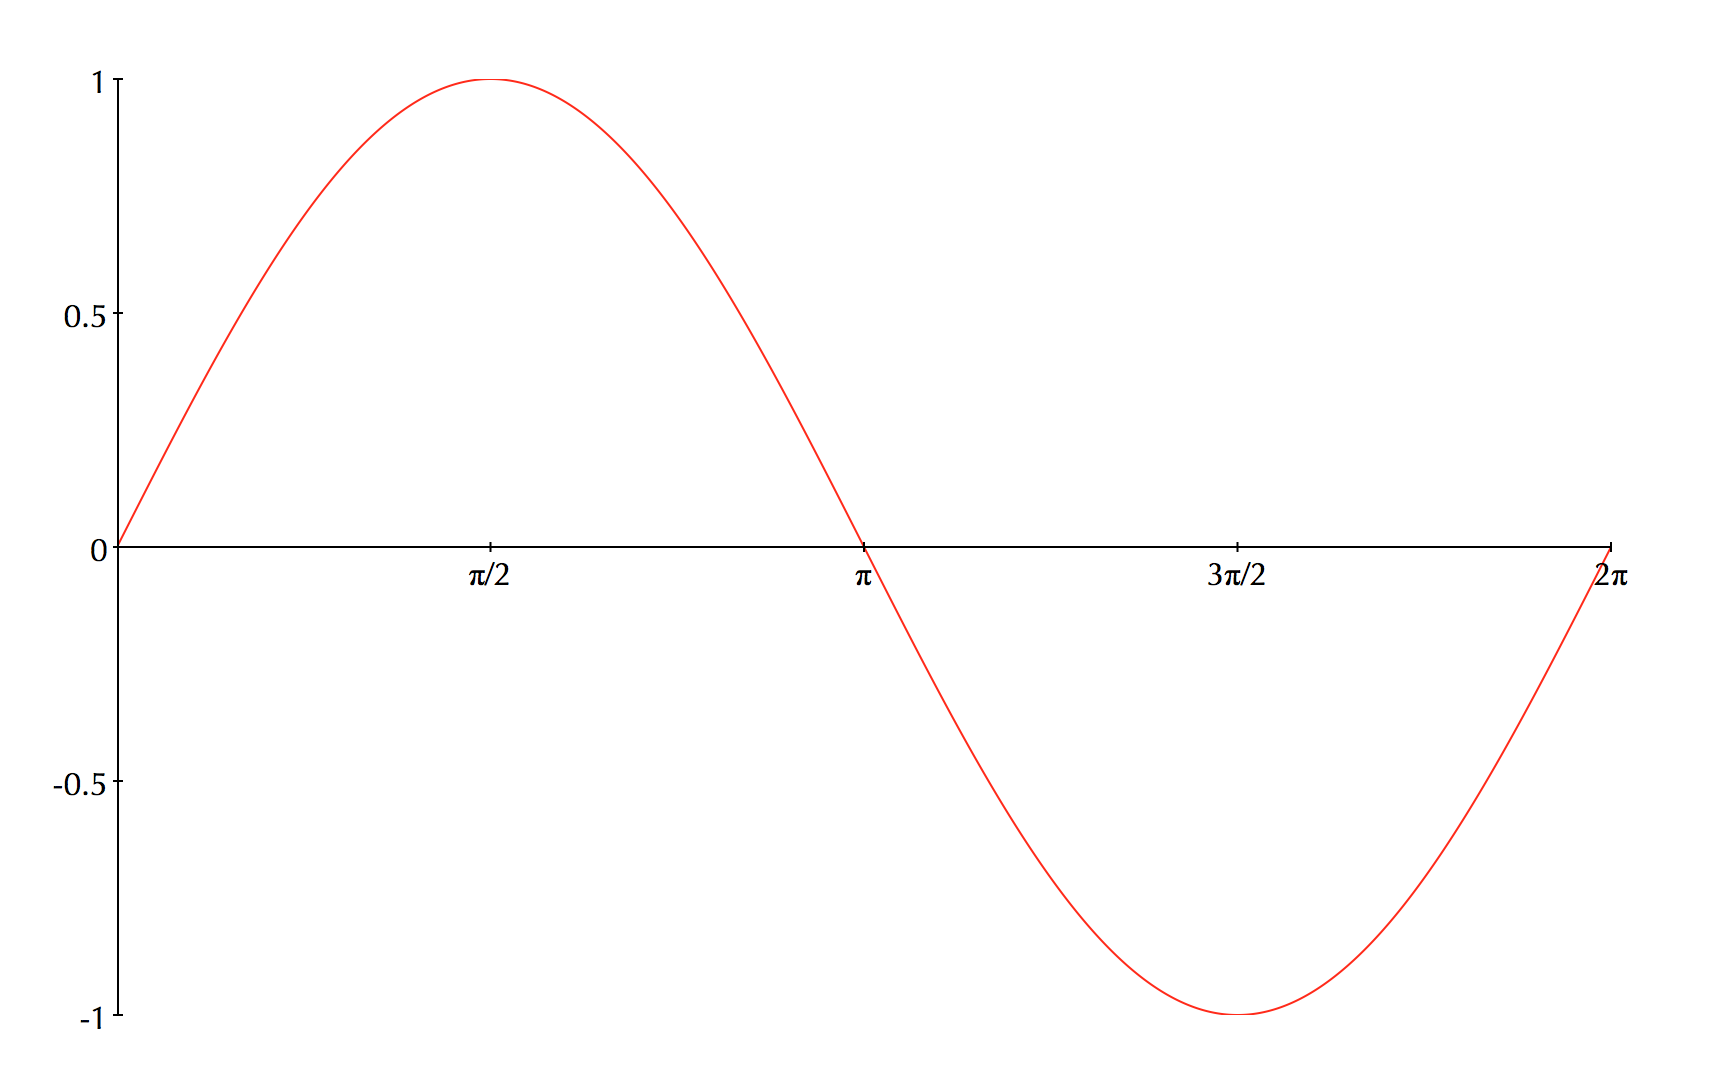
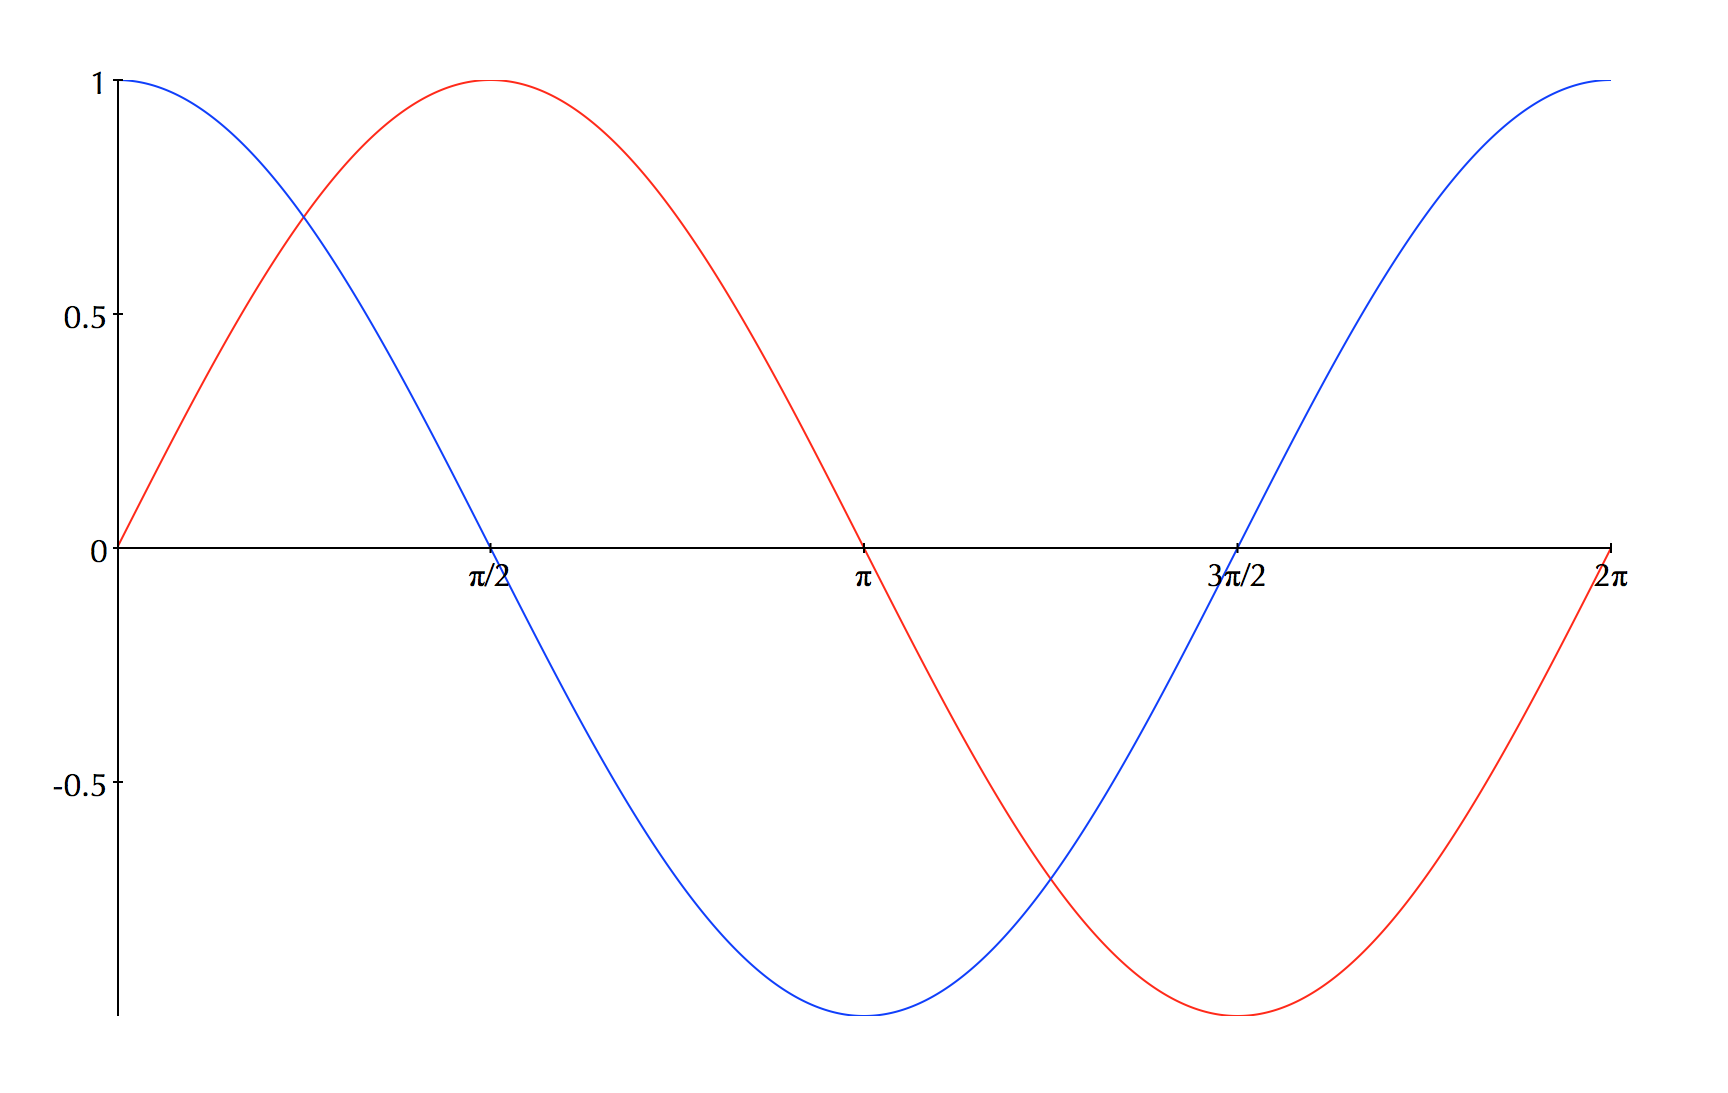
Add another curve to demo plot

diff --git a/PlotKitDemo/ViewController.swift b/PlotKitDemo/ViewController.swift
@@ -9,12 +9,18 @@ import PlotKit
 import Upsurge
 
 class ViewController: NSViewController {
+    let π = M_PI
+    let sampleCount = 1024
+    let font = NSFont(name: "Optima", size: 16)!
+
     var plotView: PlotView!
 
     override func viewDidLoad() {
         super.viewDidLoad()
         createPlotView()
+        createAxes()
         createSinePlot()
+        createCosinePlot()
     }
 
     func createPlotView() {
@@ -28,14 +34,7 @@ class ViewController: NSViewController {
         plotView.bottomAnchor.constraintEqualToAnchor(view.bottomAnchor).active = true
     }
 
-    func createSinePlot() {
-        let font = NSFont(name: "Optima", size: 16)!
-
-        let π = M_PI
-        let count = 1024
-        let t = (0..<count).map{ 2*π * Double($0) / Double(count-1) }
-        let y = sin(RealArray(t))
-
+    func createAxes() {
         let ticks = [
             TickMark(π/2, label: "π/2"),
             TickMark(π, label: "π"),
@@ -50,8 +49,22 @@ class ViewController: NSViewController {
         var yaxis = Axis(orientation: .Vertical, ticks: .Fit(4))
         yaxis.labelAttributes = [NSFontAttributeName: font]
         plotView.addAxis(yaxis)
+    }
 
-        let pointSet = PointSet(points: (0..<count).map{ Point(x: t[$0], y: y[$0]) })
+    func createSinePlot() {
+        let t = (0..<sampleCount).map({ 2*π * Double($0) / Double(sampleCount - 1) })
+        let y = t.map({ sin($0) })
+
+        let pointSet = PointSet(points: (0..<sampleCount).map{ Point(x: t[$0], y: y[$0]) })
+        plotView.addPointSet(pointSet)
+    }
+
+    func createCosinePlot() {
+        let t = (0..<sampleCount).map({ 2*π * Double($0) / Double(sampleCount - 1) })
+        let y = t.map({ cos($0) })
+
+        let pointSet = PointSet(points: (0..<sampleCount).map{ Point(x: t[$0], y: y[$0]) })
+        pointSet.lineColor = NSColor.blueColor()
         plotView.addPointSet(pointSet)
     }
 }
